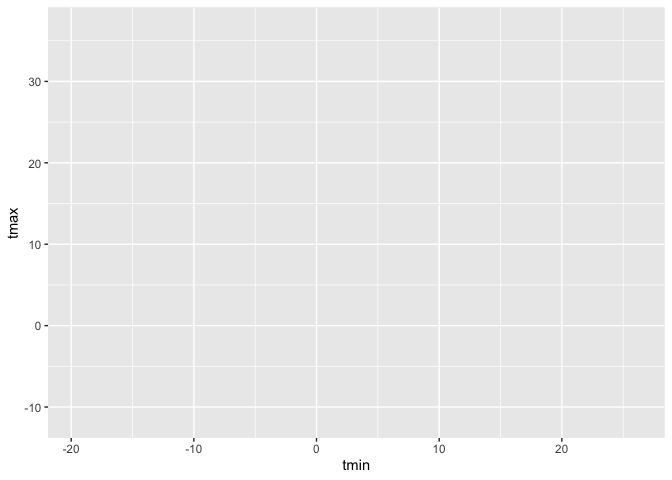
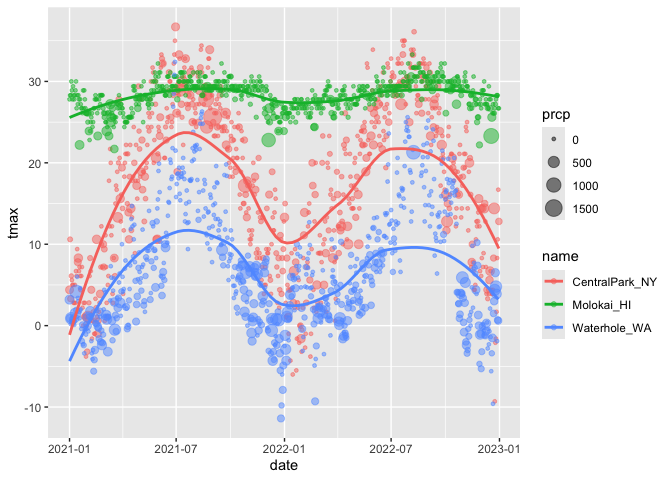
visualzation practice done

diff --git a/visualization.md b/visualization.md
@@ -114,7 +114,7 @@ Show faceting
 weather_df |> 
   ggplot(aes(x = tmin, y = tmax, color = name)) + 
   geom_point(alpha = 0.5) +
-  facet_grid(. ~name)
+  facet_grid(. ~name) # rows ~ columns, and the period is a placeholder meaning "don't split by anything in this dimension." period can be ommitted here.
 ```
 
     ## Warning: Removed 17 rows containing missing values or values outside the scale range
@@ -126,7 +126,7 @@ weather_df |>
 weather_df |> 
   ggplot(aes(x = tmin, y = tmax, color = name)) + 
   geom_point(alpha = 0.5) +
-  facet_grid(col = vars(name))
+  facet_grid(col = vars(name)) # newer, more explicit syntax. "Make a grid of panels where the columns come from the name variable."
 ```
 
     ## Warning: Removed 17 rows containing missing values or values outside the scale range
@@ -138,7 +138,61 @@ Look at sth else
 
 ``` r
 weather_df |> 
-  ggplot(aes(x = tmin, y = tmax))
+  ggplot(aes(x = date, y = tmax, color = name)) +
+  geom_point(aes(size = prcp), alpha = .5) +
+  geom_smooth(se = FALSE) #se=FALSE means not showing confident level, se=true by default
 ```
 
+    ## `geom_smooth()` using method = 'loess' and formula = 'y ~ x'
+
+    ## Warning: Removed 17 rows containing non-finite outside the scale range
+    ## (`stat_smooth()`).
+
+    ## Warning: Removed 19 rows containing missing values or values outside the scale range
+    ## (`geom_point()`).
+
 ![](visualization_files/figure-gfm/unnamed-chunk-8-1.png)<!-- -->
+
+``` r
+  facet_grid(. ~ name)
+```
+
+    ## <ggproto object: Class FacetGrid, Facet, gg>
+    ##     attach_axes: function
+    ##     attach_strips: function
+    ##     compute_layout: function
+    ##     draw_back: function
+    ##     draw_front: function
+    ##     draw_labels: function
+    ##     draw_panel_content: function
+    ##     draw_panels: function
+    ##     finish_data: function
+    ##     format_strip_labels: function
+    ##     init_gtable: function
+    ##     init_scales: function
+    ##     map_data: function
+    ##     params: list
+    ##     set_panel_size: function
+    ##     setup_data: function
+    ##     setup_panel_params: function
+    ##     setup_params: function
+    ##     shrink: TRUE
+    ##     train_scales: function
+    ##     vars: function
+    ##     super:  <ggproto object: Class FacetGrid, Facet, gg>
+
+make a plot of central park tmax vs tmin only, and convert temperatures
+from celcius to farenheit.
+
+``` r
+weather_df |> 
+  filter(name == "CentralPark_NY") |> 
+  mutate(
+    tmin = tmin*(9/5)+32,
+    tmax = tmax*(9/5)+32
+  ) |> 
+  ggplot(aes(x = tmin, y = tmax)) + 
+  geom_point()
+```
+
+![](visualization_files/figure-gfm/unnamed-chunk-9-1.png)<!-- -->
